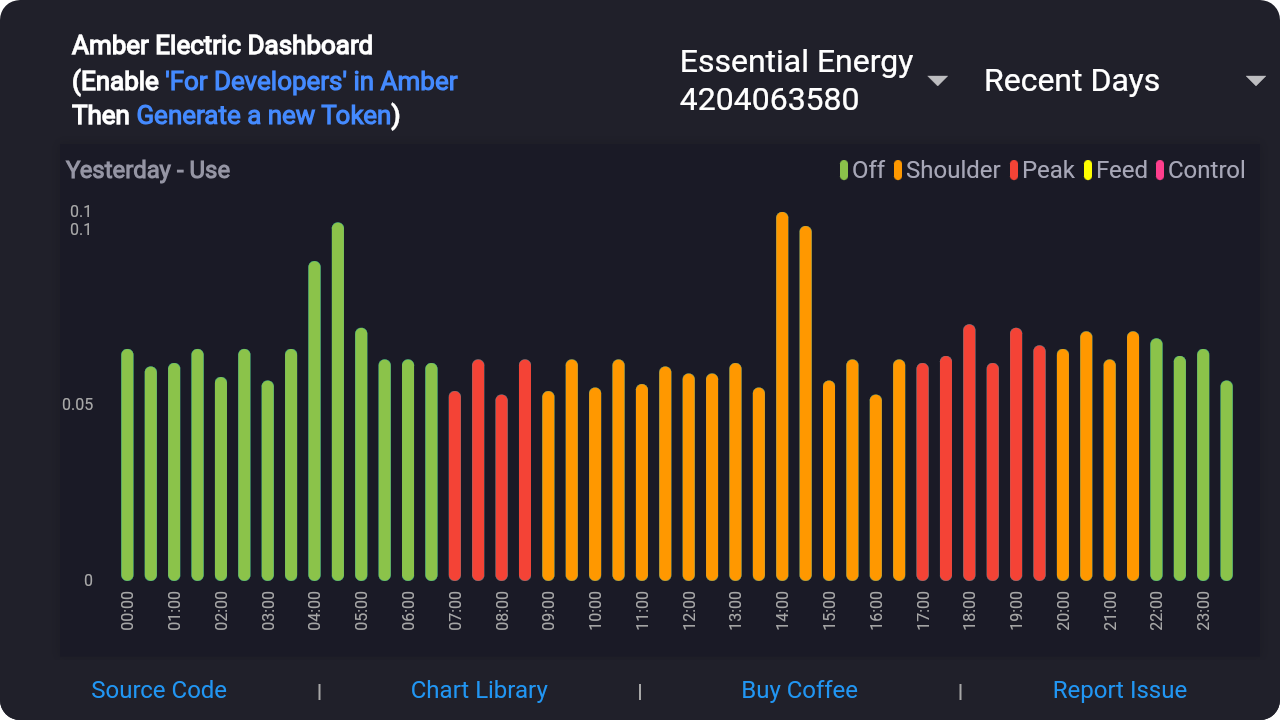
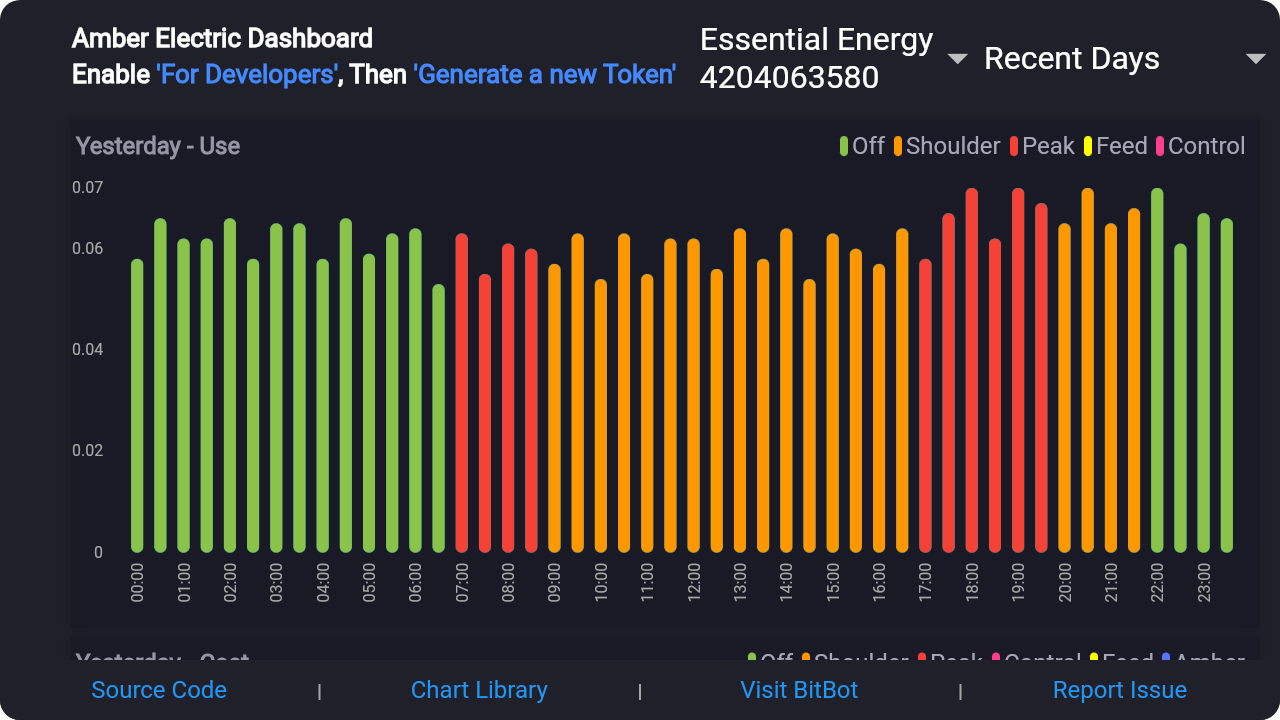
Release 0.0.5+5. Fixing URIs. Fixing margins and text on dashboard header.

diff --git a/lib/main.dart b/lib/main.dart
@@ -268,39 +268,46 @@ class HomePageState extends State<HomePage> {
                         //height: 120,
                         padding: EdgeInsets.only(
                             left: orientation == Orientation.portrait ? 6 : 36,
-                            top: orientation == Orientation.portrait ? 65 : 15,
+                            top: orientation == Orientation.portrait ? 30 : 5,
                             bottom: 3),
                         child: Row(
                           children: [
-                            orientation == Orientation.portrait && _siteIdItemSelected != null
-                                ? const Text('')
-                                : AutoSizeText.rich(
-                                    TextSpan(
-                                      text: 'Amber Electric Dashboard\n(',
-                                      style: TextStyle(
-                                        color: themeModel.isDark() ? Colors.white : Colors.black,
-                                        fontWeight: FontWeight.bold,
-                                      ),
-                                      children: [
-                                        const TextSpan(text: 'Enable '),
+                            AutoSizeText.rich(
+                              TextSpan(
+                                text: orientation == Orientation.portrait &&
+                                        _siteIdItemSelected != null
+                                    ? 'Amber\nDashboard'
+                                    : 'Amber Electric Dashboard',
+                                style: TextStyle(
+                                  color: themeModel.isDark() ? Colors.white : Colors.black,
+                                  fontWeight: FontWeight.bold,
+                                ),
+                                children: orientation == Orientation.portrait &&
+                                        _siteIdItemSelected != null
+                                    ? [const TextSpan(text: '')]
+                                    : [
+                                        const TextSpan(text: '\nEnable '),
                                         TextSpan(
-                                          text: '\'For Developers\' in Amber',
+                                          text: '\'For Developers\'',
                                           style: TextStyle(
                                               color: Theme.of(context).textTheme.button?.color ??
                                                   Colors.blueAccent,
                                               height: 1.5),
                                           recognizer: TapGestureRecognizer()
                                             ..onTap = () {
-                                              Utils.launchURL(
-                                                  'https://app.amber.com.au/');
+                                              Utils.launchURI(Uri(
+                                                scheme: 'https',
+                                                host: 'app.amber.com.au',
+                                                path: '/',
+                                              ));
                                             },
                                         ),
                                         orientation == Orientation.portrait
                                             ? const TextSpan(
                                                 text: '\nThen ', style: TextStyle(height: 1.5))
-                                            : const TextSpan(text: '\nThen '),
+                                            : const TextSpan(text: ', Then '),
                                         TextSpan(
-                                          text: 'Generate a new Token',
+                                          text: '\'Generate a new Token\'',
                                           style: TextStyle(
                                               color: Theme.of(context).textTheme.button?.color ??
                                                   Colors.blueAccent),
@@ -309,10 +316,10 @@ class HomePageState extends State<HomePage> {
                                               _displayTextInputDialog(context);
                                             },
                                         ),
-                                        const TextSpan(text: ')'),
+                                        const TextSpan(text: ''),
                                       ],
-                                    ),
-                                  ),
+                              ),
+                            ),
                             const Spacer(flex: 10),
                             // Switch(
                             //   value: themeModel.isDark(),
@@ -360,7 +367,7 @@ class HomePageState extends State<HomePage> {
                           // Random number that makes my phone look good
                           padding: orientation == Orientation.portrait
                               ? const EdgeInsets.only(left: 4, right: 4, bottom: 4, top: 4)
-                              : const EdgeInsets.only(left: 30, right: 10, bottom: 4, top: 4),
+                              : const EdgeInsets.only(left: 35, right: 10, bottom: 4, top: 4),
                           crossAxisSpacing: 4,
                           mainAxisSpacing: 4,
                           children: _dropdownItemSelected.value == _dropdownItems[0].value
@@ -442,40 +449,40 @@ class HomePageState extends State<HomePage> {
                                               rawData, 'Last 2 - Use', const Duration(days: 2),
                                               prices: false)),
                                       MyCard(
-                                          child: BarChartWidget1(rawData, 'Last 2 - Cost',
-                                              const Duration(days: 2),
+                                          child: BarChartWidget1(
+                                              rawData, 'Last 2 - Cost', const Duration(days: 2),
                                               prices: true)),
                                       MyCard(
                                           child: BarChartWidget1(
                                               rawData, 'Last 7 - Use', const Duration(days: 7),
                                               prices: false)),
                                       MyCard(
-                                          child: BarChartWidget1(rawData, 'Last 7 - Cost',
-                                              const Duration(days: 7),
+                                          child: BarChartWidget1(
+                                              rawData, 'Last 7 - Cost', const Duration(days: 7),
                                               prices: true)),
                                       MyCard(
-                                          child: BarChartWidget1(rawData, 'Last 14 - Use',
-                                              const Duration(days: 14),
+                                          child: BarChartWidget1(
+                                              rawData, 'Last 14 - Use', const Duration(days: 14),
                                               prices: false)),
                                       MyCard(
-                                          child: BarChartWidget1(rawData, 'Last 14 - Cost',
-                                              const Duration(days: 14),
+                                          child: BarChartWidget1(
+                                              rawData, 'Last 14 - Cost', const Duration(days: 14),
                                               prices: true)),
                                       MyCard(
-                                          child: BarChartWidget1(rawData, 'Last 21 - Use',
-                                              const Duration(days: 21),
+                                          child: BarChartWidget1(
+                                              rawData, 'Last 21 - Use', const Duration(days: 21),
                                               prices: false)),
                                       MyCard(
-                                          child: BarChartWidget1(rawData, 'Last 21 - Cost',
-                                              const Duration(days: 21),
+                                          child: BarChartWidget1(
+                                              rawData, 'Last 21 - Cost', const Duration(days: 21),
                                               prices: true)),
                                       MyCard(
-                                          child: BarChartWidget1(rawData, 'Last 28 - Use',
-                                              const Duration(days: 28),
+                                          child: BarChartWidget1(
+                                              rawData, 'Last 28 - Use', const Duration(days: 28),
                                               prices: false)),
                                       MyCard(
-                                          child: BarChartWidget1(rawData, 'Last 28 - Cost',
-                                              const Duration(days: 28),
+                                          child: BarChartWidget1(
+                                              rawData, 'Last 28 - Cost', const Duration(days: 28),
                                               prices: true)),
                                     ]
                                   : [
@@ -527,7 +534,11 @@ class HomePageState extends State<HomePage> {
                             Expanded(
                               child: TextButton(
                                 onPressed: () {
-                                  Utils.launchURL('https://github.com/bradrushworth/amber');
+                                  Utils.launchURI(Uri(
+                                    scheme: 'https',
+                                    host: 'github.com',
+                                    path: '/bradrushworth/amber',
+                                  ));
                                 },
                                 // Constrains AutoSizeText to the width of the Row
                                 child: AutoSizeText('Source Code',
@@ -539,19 +550,27 @@ class HomePageState extends State<HomePage> {
                               // Constrains AutoSizeText to the width of the Row
                               child: TextButton(
                                 onPressed: () {
-                                  Utils.launchURL('https://pub.dev/packages/fl_chart');
+                                  Utils.launchURI(Uri(
+                                    scheme: 'https',
+                                    host: 'pub.dev',
+                                    path: '/packages/fl_chart',
+                                  ));
                                 },
                                 child: AutoSizeText('Chart Library',
                                     maxLines: 1, softWrap: false, group: bottomButtonGroup),
                               ),
                             ),
                             const MyDivider(),
-                            kIsWeb
+                            kIsWeb && kReleaseMode
                                 ? Expanded(
                                     // Constrains AutoSizeText to the width of the Row
                                     child: TextButton(
                                       onPressed: () {
-                                        Utils.launchURL('https://www.buymeacoffee.com/bitbot');
+                                        Utils.launchURI(Uri(
+                                          scheme: 'https',
+                                          host: 'www.buymeacoffee.com',
+                                          path: '/bitbot',
+                                        ));
                                       },
                                       child: AutoSizeText('Buy Coffee',
                                           maxLines: 1,
@@ -564,7 +583,11 @@ class HomePageState extends State<HomePage> {
                                     // Constrains AutoSizeText to the width of the Row
                                     child: TextButton(
                                       onPressed: () {
-                                        Utils.launchURL('https://www.bitbot.com.au/');
+                                        Utils.launchURI(Uri(
+                                          scheme: 'https',
+                                          host: 'www.bitbot.com.au',
+                                          path: '/',
+                                        ));
                                       },
                                       child: AutoSizeText('Visit BitBot',
                                           maxLines: 1,
@@ -578,8 +601,11 @@ class HomePageState extends State<HomePage> {
                               // Constrains AutoSizeText to the width of the Row
                               child: TextButton(
                                 onPressed: () {
-                                  Utils.launchURL(
-                                      'mailto:bitbot@bitbot.com.au?subject=Help with Amber Electric Dashboard');
+                                  Utils.launchURI(Uri(
+                                    scheme: 'mailto',
+                                    path: 'bitbot@bitbot.com.au',
+                                    query: 'subject=Help with Amber Electric Dashboard',
+                                  ));
                                 },
                                 child: AutoSizeText('Report Issue',
                                     maxLines: 1, softWrap: false, group: bottomButtonGroup),

diff --git a/lib/utils.dart b/lib/utils.dart
@@ -2,8 +2,8 @@
 import 'package:url_launcher/url_launcher.dart';
 
 class Utils {
-  static void launchURL(String url) async =>
-      await canLaunch(url) ? await launch(url) : throw 'Could not launch $url';
+  static void launchURI(Uri uri) async =>
+      await canLaunchUrl(uri) ? await launchUrl(uri) : throw 'Could not launch $uri';
 
   static String monthIntToName(double xValue) {
     switch (xValue.toInt()) {
